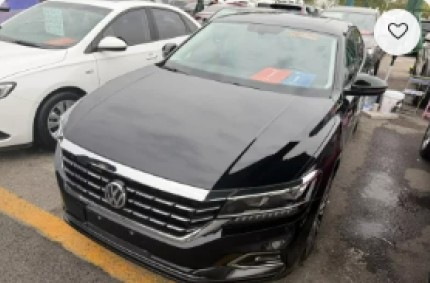
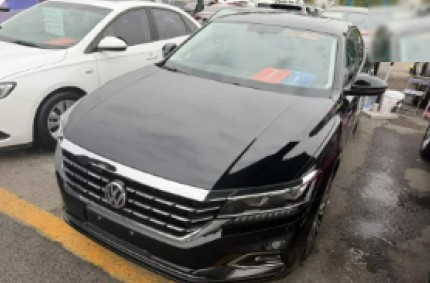
Поправить отображение на телефонах и планшетах
- Отзывы видны всегда; анимация появления включается, только если блок
  ниже экрана (раньше при сбое наблюдателя блок оставался пустым)
- Банки: без zoom и ленивой загрузки — в бегущей строке не было логотипов
- Каталог: 3 колонки на планшете, отступ первой карточки на телефоне,
  убрано «сердечко», вшитое в фото-заглушки
- Карта офиса без панели браузера из скриншота
- Кнопки первого экрана на планшете в одну строку, ровные ряды отзывов,
  перенос маршрутов в «Географии», подписи к фото на тач-устройствах
- Золотое слово в заголовке без blur-анимации (Safari)

Claude-Session: https://claude.ai/code/session_017qht9Cxto4coCTJe98gp91

Changed region(s): [[0.8465, 0.0, 1.0, 0.2261]]

diff --git a/src/components/sections/Reviews.tsx b/src/components/sections/Reviews.tsx
@@ -10,20 +10,23 @@ import styles from "./Reviews.module.css";
 // на наведении — приближение и подпись, по клику — полноэкранный просмотр с листанием.
 export function Reviews() {
   const gridRef = useRef<HTMLUListElement>(null);
-  const [visible, setVisible] = useState(false);
   const [open, setOpen] = useState<number | null>(null);
 
   useEffect(() => {
     const el = gridRef.current;
-    if (!el) return;
+    if (!el || !("IntersectionObserver" in window)) return;
+    // Прячем фото только если блок ещё ниже экрана: без JS или при сбое наблюдателя
+    // отзывы остаются видимыми, анимация — лишь надстройка.
+    if (el.getBoundingClientRect().top < window.innerHeight) return;
+    el.dataset.armed = "";
     const io = new IntersectionObserver(
       ([e]) => {
         if (e.isIntersecting) {
-          setVisible(true);
+          delete el.dataset.armed;
           io.disconnect();
         }
       },
-      { threshold: 0.2 },
+      { rootMargin: "0px 0px -10% 0px" },
     );
     io.observe(el);
     return () => io.disconnect();
@@ -41,7 +44,7 @@ export function Reviews() {
           </div>
         </div>
 
-        <ul className={styles.grid} ref={gridRef} data-visible={visible || undefined}>
+        <ul className={styles.grid} ref={gridRef}>
           {reviews.map((r, i) => (
             <li key={i} style={{ "--i": i } as CSSProperties}>
               <button className={styles.item} onClick={() => setOpen(i)} aria-label={`Открыть фото: ${r.car}`}>

diff --git a/src/components/sections/CatalogPreview.module.css b/src/components/sections/CatalogPreview.module.css
@@ -89,11 +89,10 @@
 
 .fav {
   position: absolute;
-  /* перекрывает «сердечко», которое есть на фото-заглушках из макета */
-  top: calc(11% - 17px);
-  right: calc(8% - 17px);
-  width: 34px;
-  height: 34px;
+  top: 8px;
+  right: 8px;
+  width: 32px;
+  height: 32px;
   border-radius: 50%;
   display: grid;
   place-items: center;
@@ -253,7 +252,13 @@
   width: 216px;
 }
 
-@media (max-width: 1024px) {
+@media (max-width: 1100px) {
+  .grid {
+    grid-template-columns: repeat(3, 1fr);
+  }
+}
+
+@media (max-width: 860px) {
   .grid {
     grid-template-columns: repeat(2, 1fr);
   }
@@ -272,6 +277,7 @@
     overflow-x: auto;
     scroll-snap-type: x mandatory;
     overscroll-behavior-x: contain;
+    scroll-padding-inline: var(--gutter);
     margin: 0 calc(var(--gutter) * -1);
     padding: 4px var(--gutter) 12px;
     scrollbar-width: none;

diff --git a/src/components/sections/Reviews.module.css b/src/components/sections/Reviews.module.css
@@ -5,17 +5,15 @@
 }
 
 .grid li {
-  opacity: 0;
-  transform: translateY(30px) rotate(calc((var(--i) - 3.5) * 0.6deg)) scale(0.96);
   transition:
     opacity 0.7s var(--ease),
     transform 0.8s var(--ease);
   transition-delay: calc(var(--i) * 80ms);
 }
 
-.grid[data-visible] li {
-  opacity: 1;
-  transform: none;
+.grid[data-armed] li {
+  opacity: 0;
+  transform: translateY(30px) rotate(calc((var(--i) - 3.5) * 0.6deg)) scale(0.96);
 }
 
 .item {
@@ -69,13 +67,15 @@
   }
 }
 
-@media (max-width: 1024px) {
-  .grid {
-    grid-template-columns: repeat(3, 1fr);
+/* на тач-устройствах наведения нет — подпись показываем сразу */
+@media (hover: none) {
+  .overlay {
+    opacity: 1;
+    transform: none;
   }
 }
 
-@media (max-width: 640px) {
+@media (max-width: 700px) {
   .grid {
     grid-template-columns: repeat(2, 1fr);
     gap: 8px;

diff --git a/src/components/sections/Hero.module.css b/src/components/sections/Hero.module.css
@@ -108,14 +108,15 @@
   -webkit-background-clip: text;
   background-clip: text;
   color: transparent;
+  -webkit-text-fill-color: transparent;
   animation: wordIn 0.6s var(--ease);
 }
 
+/* без filter: blur — вместе с background-clip: text Safari может не отрисовать слово */
 @keyframes wordIn {
   from {
     opacity: 0;
     transform: translateY(0.35em);
-    filter: blur(6px);
   }
 }
 
@@ -287,6 +288,16 @@
 }
 
 @media (max-width: 1024px) {
+  .btn {
+    font-size: 18px;
+    padding: 0 20px;
+  }
+
+  .btnPrimary,
+  .btnGlass {
+    min-width: 0;
+  }
+
   .stats {
     grid-template-columns: 1fr 1fr;
     gap: 24px;

diff --git a/src/components/sections/Partners.tsx b/src/components/sections/Partners.tsx
@@ -1,11 +1,12 @@
+import type { CSSProperties } from "react";
 import { Marquee } from "@/components/ui/Marquee";
 import { banks } from "@/data/content";
 import styles from "./Partners.module.css";
 
 function BankRow() {
   return banks.map((b) => (
-    <div key={b.name} className={styles.bank} style={{ width: b.w }}>
-      <img src={b.logo} alt={b.name} width={b.w} height={66} loading="lazy" />
+    <div key={b.name} className={styles.bank} style={{ "--w": `${b.w}px` } as CSSProperties}>
+      <img src={b.logo} alt={b.name} width={b.w} height={66} />
     </div>
   ));
 }

diff --git a/src/components/sections/LeadSection.tsx b/src/components/sections/LeadSection.tsx
@@ -84,7 +84,7 @@ export function LeadSection() {
                 <input
                   className={styles.wide}
                   name="wishes"
-                  placeholder="Пожелания к автомобилю (марка, модель)"
+                  placeholder="Пожелания: марка, модель"
                   aria-label="Пожелания к автомобилю"
                 />
                 {phoneError && <p className={`${styles.wide} ${styles.error}`}>Введите номер телефона полностью</p>}

diff --git a/src/components/sections/Geography.module.css b/src/components/sections/Geography.module.css
@@ -328,6 +328,20 @@
     grid-template-columns: 1fr;
   }
 
+  .routes li {
+    height: auto;
+    min-height: 36px;
+    padding: 8px 11px;
+    flex-wrap: wrap;
+    column-gap: 10px;
+    row-gap: 2px;
+  }
+
+  .routes small {
+    flex-basis: 100%;
+    padding-left: 36px;
+  }
+
   .name {
     font-size: 24px;
   }

diff --git a/src/components/sections/Partners.module.css b/src/components/sections/Partners.module.css
@@ -12,6 +12,7 @@
 }
 
 .bank {
+  width: var(--w);
   height: 66px;
   flex-shrink: 0;
   border-radius: var(--radius);
@@ -37,6 +38,7 @@
   }
 
   .bank {
-    zoom: 0.8;
+    width: calc(var(--w) * 0.8);
+    height: 53px;
   }
 }

diff --git a/src/components/sections/Contacts.module.css b/src/components/sections/Contacts.module.css
@@ -94,6 +94,8 @@
   width: 100%;
   height: 100%;
   object-fit: cover;
+  /* метка офиса — левее центра кадра */
+  object-position: 40% 50%;
 }
 
 @media (max-width: 1024px) {
